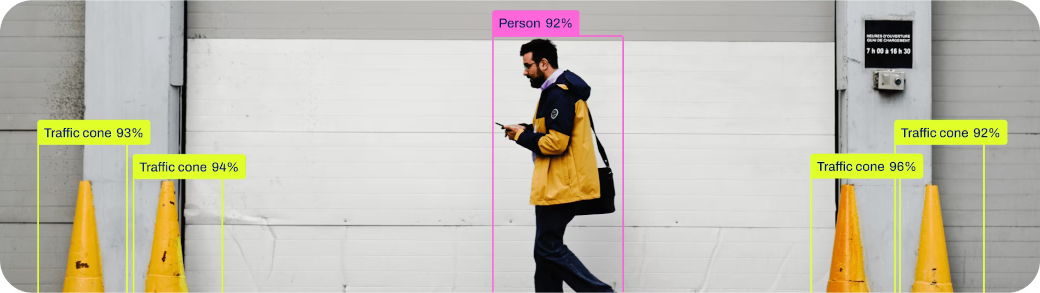
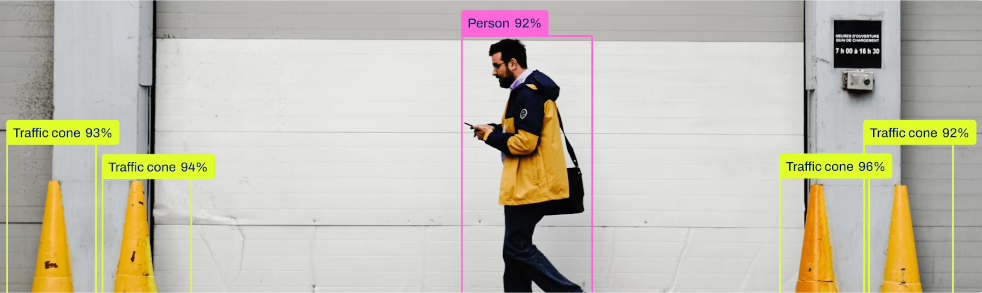
new post

diff --git a/_sass/minimal-mistakes/_archive.scss b/_sass/minimal-mistakes/_archive.scss
@@ -220,15 +220,17 @@
   }
 
   .archive__item-teaser {
-    max-height: 120px;
+    height: 120px;
     background-color: $primary-color;
     display: flex;
     justify-content: center;
+    align-items: center;
 
     img {
       background-color: $background-color;
+      max-width: 100%;
       width: auto;
-      max-height: 120px;
+      max-height: 100%;
       height: auto;
       object-fit: contain;
     }

diff --git a/_posts/2026-05-21-22.md b/_posts/2026-05-21-22.md
@@ -1,0 +1,108 @@
+---
+title: "실시간 Person Re-identification 모델 개발기"
+teaser: "/images/22/model_architecture.jpg"
+categories:
+  - data-ai
+use_mathjax: true
+use_mermaid: true
+---
+
+<!--excerpt open-->
+
+여러 대의 카메라가 설치된 환경에서 특정 인물을 지속적으로 추적하기 위해서는 각 카메라에 포착된 인물이 동일인인지 판별하는 기술인 **Person Re-identification (Re-ID)**이 필수적입니다.
+
+Re-ID 분야에서 여러 모델들이 제안되고 있지만, 정제된 데이터셋에서 높은 정확도를 달성하는 모델들이 실제 환경에서는 실시간으로 동작하기 어렵거나, 폐쇄(occlusion) 상황에서 성능이 급격히 떨어지는 경우가 많습니다. 또한 필요 이상의 복잡한 모델 구조로 인해 모바일 및 엣지 환경에서의 활용이 제한적입니다. 저는 이번 프로젝트를 통해 모바일 및 엣지 환경에서도 실시간으로 동작하면서도, 현실적인 상황에서도 강건하게 동작하는 Re-ID 모델을 직접 설계하고 구현해 보았습니다.
+
+<!--excerpt close-->
+
+## 모델 설계의 핵심 목표
+
+Re-ID 모델을 설계하면서 제가 가장 집중한 부분은 두 가지입니다.
+
+1.  **실시간성 (Efficiency)**: 저사양 기기에서 실시간으로 처리할 수 있도록 모델의 크기와 연산량을 최소화.
+2.  **강건함 (Robustness)**: 사람의 몸 일부가 가려지거나(Occlusion), 카메라의 각도가 바뀌어도 동일인을 잘 찾아내야 함.
+
+## 모델 아키텍처
+
+단순히 이미지 전체에서 하나의 임베딩 벡터를 추출하는 방식은 일부가 가려졌을 때 성능이 급격히 떨어집니다. 이를 해결하기 위해 사람의 몸을 5개의 신체부위(머리, 상체, 하체, 양팔, 양다리 등)으로 나누어 각각의 특징을 추출하는 **Part-based representation** 방식을 채택했습니다. 본 모델의 아키텍처는 [BPBReID(Body Part-based Re-Identification)](https://github.com/vlsomers/bpbreid) 에서 영감을 받았습니다.
+
+- **Input**: RGB Image Tensor
+- **Output 1**: 각 신체부위별 Visibility Score
+- **Output 2**: 각 신체부위별 Embedding Vector
+
+### 특징 추출: Backbone + FPN + Attention
+
+본 모델은 빠른 추론 속도를 위해 Backbone으로 **MobileNetV3**를 사용했으며, 고해상도의 세밀한 특징과 고차원의 추상적인 특징을 모두 활용하기 위해 **FPN(Feature Pyramid Network)** 구조를 적용했습니다.
+
+특징 추출 모델의 아이디어는 **분할 맵(Segmentation Map)을 Attention 메커니즘으로 활용**하는 것입니다.
+
+<figure>
+  <img src="/images/22/model_architecture.jpg" alt="feature extraction architecture">
+  <figcaption>분할 맵을 Attention으로 활용하여 각 신체부위의 가시성에 따라 특징에 가중치를 주는 방식</figcaption>
+</figure>
+
+입력 이미지를 5개의 신체부위으로 나누는 **분할 맵**과 각 위치별 특징을 나타내는 **임베딩 맵 (Embedding Map)**을 동시에 추출합니다. 이후 임베딩 맵을 분할 맵에 대해 가중합하여 각 신체부위별 **Embedding Vector**를 생성합니다.
+
+분할 맵과 임베딩 맵의 추출 방식에 약간의 차이를 두었습니다. 분할 맵은 국소적인 특징과 전역적인 특징을 모두 활용하기 위해 FPN의 여러 레벨에서 추출한 feature map을 활용하는 반면, 임베딩 맵은 국소적인 특징을 중점적으로 활용하기 위해 FPN의 낮은 레벨에서 추출한 feature map만을 활용하도록 설계했습니다.
+
+**Visibility Score**는 분할 맵에서 각 신체부위가 얼마나 잘 보이는지를 나타내는 지표로, 각 신체부위별 분할 맵에서 최대값을 취하여 계산합니다. 이는 이후 유사도 측정에서 각 신체부위의 중요도를 조절하는 데 활용됩니다.
+
+### 유사도 측정: Weakest Link 원칙
+
+두 이미지의 유사도는 각 신체부위별 Embedding Vector 간의 코사인 유사도를 계산한 후, 이를 Visibility Score에 따라 가중하여 전체 유사도를 계산하는 방식으로 측정합니다.
+
+<figure>
+  <img src="/images/22/comparison_diagram.jpg" alt="similarity comparison diagram">
+  <figcaption>각 신체부위별 유사도 계산</figcaption>
+</figure>
+
+전체 유사도 계산 방식으로 흔히 Weighted Mean 방식을 생각해볼 수 있습니다. 그러나, 우리가 관심 있는 것은 '전체적으로 비슷한가?'가 아니라 '각 부분이 모두 비슷한가?'입니다. 두 이미지가 다른 사람임을 판단할 때, 결정적으로 다른 부분 하나만 있으면 충분하기 때문입니다. 예를 들어 신발 하나의 차이 같이 말입니다. 쇠사슬의 강도는 가장 약한 고리에 의해 결정된다는 의미로 **Weakest Link 원칙**이라고 이름을 붙여봤습니다.
+
+Weakest Link를 구현할 수 있는 여러 메트릭을 고민해봤으며, 그 중 **Product** 방식을 소개합니다.
+
+\$\$ Similarity\_{total} = \prod\_{i=1}^{n} (1-v_i) + v_i \cdot \text{remap}\_i(\text{cos_sim}(f_i, g_i)) \$\$
+
+각 부분별 유사도를 구한 뒤, 곱을 취합니다. 이 과정에서 Visibility Score \$v_i\$가 0에 가까울수록 해당 부분의 유사도가 전체 유사도에 미치는 영향이 줄어들도록 설계했습니다.
+
+또한 각 부분별 유사도는 단순히 코사인 유사도를 사용하기보다는, 코사인 유사도의 범위를 [0, 1]로 리맵핑하는 함수를 적용하여 계산했습니다. 코사인 유사도가 음수인 경우는 동일인일 가능성이 없으므로 0으로 하한을 두었으며(clamping), 이를 통해 각 부분별 descriptive power 또는 commonality의 차이에 따라 적정 임계값이 다를 수 있다는 점을 고려했습니다.
+
+리맵핑 함수는 다음과 같이 정의했습니다.
+
+\$\$ \text{remap}\_i(x) = \frac{1}{1 + \frac{1 - V}{V} \left( \frac{\tau_i}{1 - \tau_i} \cdot \frac{1 - x}{x} \right)^k }, \quad x \in (0, 1) \$\$
+
+여기서 \$\tau_i\$는 각 부위별 **적정 임계값**이며, \$V\$은 \$x=\tau_i\$일 때 부여할 값입니다. \$k\$는 결정 경계에서의 곡률(steepness)을 조절합니다. 기본 값으로 \$V=0.7\$와 \$k=2\$을 사용했습니다.
+
+**적정 임계값(\$\tau_i\$)**은 서로 다른 인물 간의 명확한 변별력을 유지하면서도, true positives을 극대화하도록 선택되었습니다. 핵심 철학은 **'확실히 다른' 후보는 단호하게 배제하고, '동일인일 가능성이 있는' 후보는 최대한 보존하는 것**입니다. 아래과 같이 적정 임계값을 설정했습니다.
+
+<img src="/images/22/s_score_dist_head.png" alt="similarity score distribution for head">
+<img src="/images/22/s_score_dist_torso.png" alt="similarity score distribution for torso">
+<img src="/images/22/s_score_dist_arm.png" alt="similarity score distribution for arms">
+<img src="/images/22/s_score_dist_upper_leg.png" alt="similarity score distribution for upper legs">
+<img src="/images/22/s_score_dist_lower_leg.png" alt="similarity score distribution for lower legs">
+
+## 모델 학습
+
+모델은 다음과 같이 멀티 태스크(multi-task) 방식으로 학습되었습니다.
+
+- **분할(Segmentation)**: Focal Loss를 사용하여 COCO DensePose 데이터셋으로 학습되었습니다.
+- **특징 추출(Feature Extraction)**: Classification Loss와 Triplet Loss를 조합하여 AI Hub(한국 정부 지원 플랫폼)의 한국인 재식별 이미지 데이터셋으로 학습되었습니다.
+
+현실적인 환경을 재현하기 위해 Random Crop과 저해상도 상황을 구현하기 위해 Random Resizing을 적용하여 학습 데이터를 증강했습니다.
+
+## 웹 데모
+
+실용성을 확인하기 위해 **ONNX Runtime Web**을 사용하여 웹 브라우저 상에서 CPU만으로 실시간 추론이 가능한 데모를 구현했습니다.
+
+[https://juhonamnam.github.io/realtime-re-id/](https://juhonamnam.github.io/realtime-re-id/)
+
+별도의 서버 없이도 사용자의 브라우저에서 직접 딥러닝 모델이 돌아가는 모습을 보며, 엣지 컴퓨팅의 가능성을 다시 한번 확인할 수 있었습니다.
+
+## 마치며
+
+이번 프로젝트를 통해 딥러닝 모델의 구조 설계부터 학습, 그리고 웹 환경으로의 배포까지 전 과정을 경험할 수 있었습니다. 특히 논문에서 보았던 구조들을 그대로 따라 하기보다, 제가 정한 목적에 맞게 모델을 설계했습니다.
+
+최종 모델 구조를 선정하는 과정에서 다양한 아이디어로 여러 시도를 해봤으며, 성공적이지 못한 시도들 조차 검증하는데 많은 시간이 소요되었습니다.
+
+본 모델은 실시간성을 위해 경량화된 모델이기에, 높은 정확도는 일부 희생될 수밖에 없습니다. 따라서 본 모델을 단독으로 사용하기보다는, 동일인 후보군을 좁히는 1차 필터링 단계로 활용하고, 이후에 더 정밀한 모델을 적용하는 방식으로 활용할 수 있을 것으로 기대합니다.
+
+자세한 소스 코드는 제 [GitHub 저장소](https://github.com/juhonamnam/realtime-re-id)에서 확인하실 수 있습니다.

diff --git a/GEMINI.md b/GEMINI.md
@@ -1,0 +1,58 @@
+# Gemini CLI Project Context: juhonamnam.github.io
+
+This project is the personal website and blog of **Juho Nam (남주호)**, a software engineer. It is built using the **Jekyll** static site generator and is based on a customized version of the **Minimal Mistakes** theme.
+
+## Project Overview
+
+- **Purpose:** Personal portfolio, blog, and showcase of professional experience/projects.
+- **Base URL:** [https://juhonamnam.github.io](https://juhonamnam.github.io)
+- **Primary Technologies:**
+  - **Jekyll:** Static site generation.
+  - **Ruby:** Dependency management via Bundler.
+  - **Sass/SCSS:** Custom styling (located in `_sass/custom/`).
+  - **Markdown:** Content authoring (posts and pages).
+  - **Liquid:** Templating language for Jekyll layouts and includes.
+
+## Building and Running
+
+The project uses standard Jekyll and Bundler commands.
+
+- **Install Dependencies:**
+  ```bash
+  bundle install
+  ```
+- **Local Development Server:**
+  Starts a local server (usually at `http://localhost:4000`) with live reloading.
+  ```bash
+  bundle exec jekyll serve
+  ```
+- **Build Site:**
+  Generates the static site into the `_site/` directory.
+  ```bash
+  bundle exec jekyll build
+  ```
+- **JavaScript Minification (Optional):**
+  Uses `uglify-js` (via Rake) to minify frontend scripts.
+  ```bash
+  rake js
+  ```
+
+## Project Structure
+
+- `_posts/`: Contains blog posts in Markdown format, following the `YYYY-MM-DD-title.md` naming convention.
+- `_data/`: YAML files containing structured site data:
+  - `navigation.yml`: Main menu links.
+  - `about-me/`: Details for the portfolio sections (projects, work experience).
+  - `site_info.yml`: General site metadata.
+- `_layouts/`: Custom HTML layouts, primarily under `_layouts/blog/`.
+- `_includes/`: Reusable HTML components and scripts.
+- `_sass/`: SCSS files. Custom overrides are in `_sass/custom/`.
+- `assets/`: Static assets such as images (in `images/`), CSS, and JS.
+- `blog/` & `about-me/`: Top-level directories for specific site sections.
+
+## Development Conventions
+
+- **Content Authoring:** Blog posts should include YAML front matter specifying the layout, title, categories, and tags.
+- **Customization:** Prefer modifying `_data/` YAML files for content updates and `_sass/custom/` for styling changes to keep the core theme files clean.
+- **Images:** Organized by post index in `images/` (e.g., `images/1/`, `images/2/`) or by category (e.g., `images/projects/`).
+- **Language:** The site's primary locale is `ko-KR` (Korean).